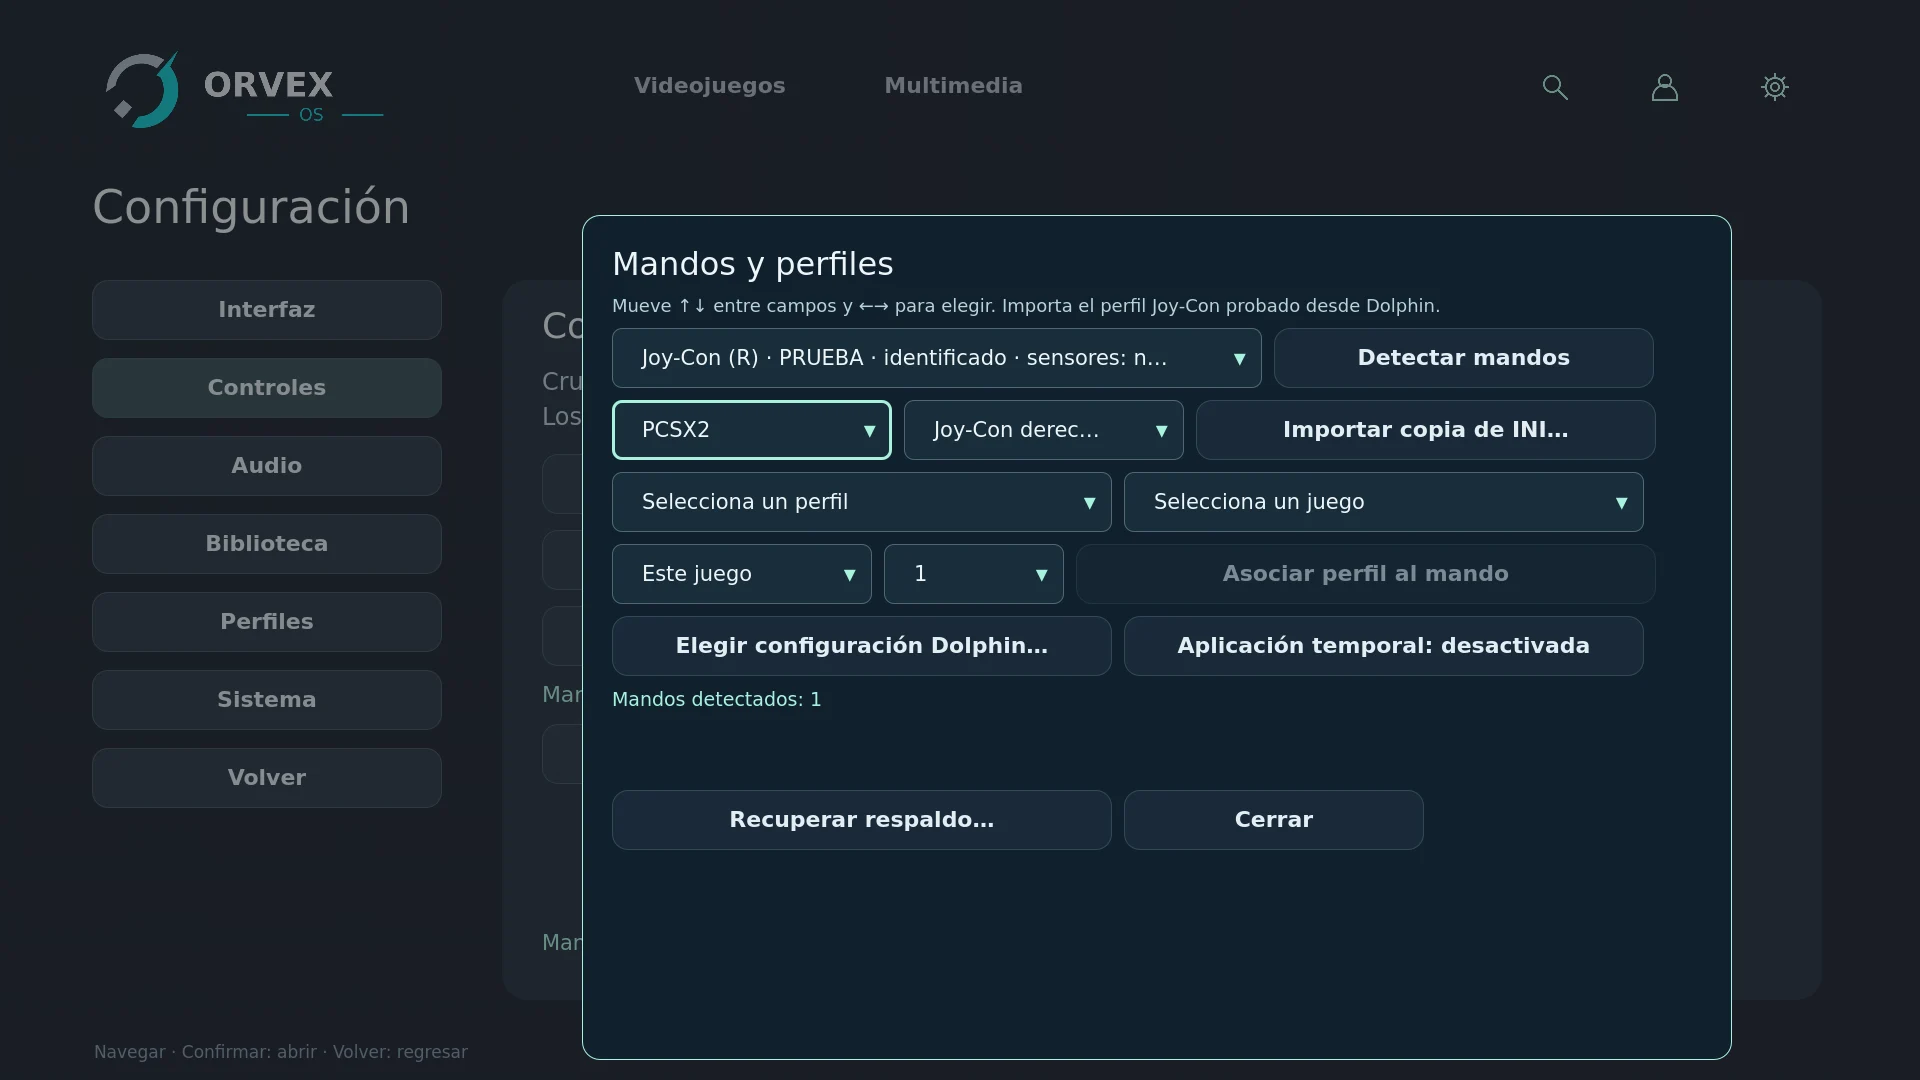
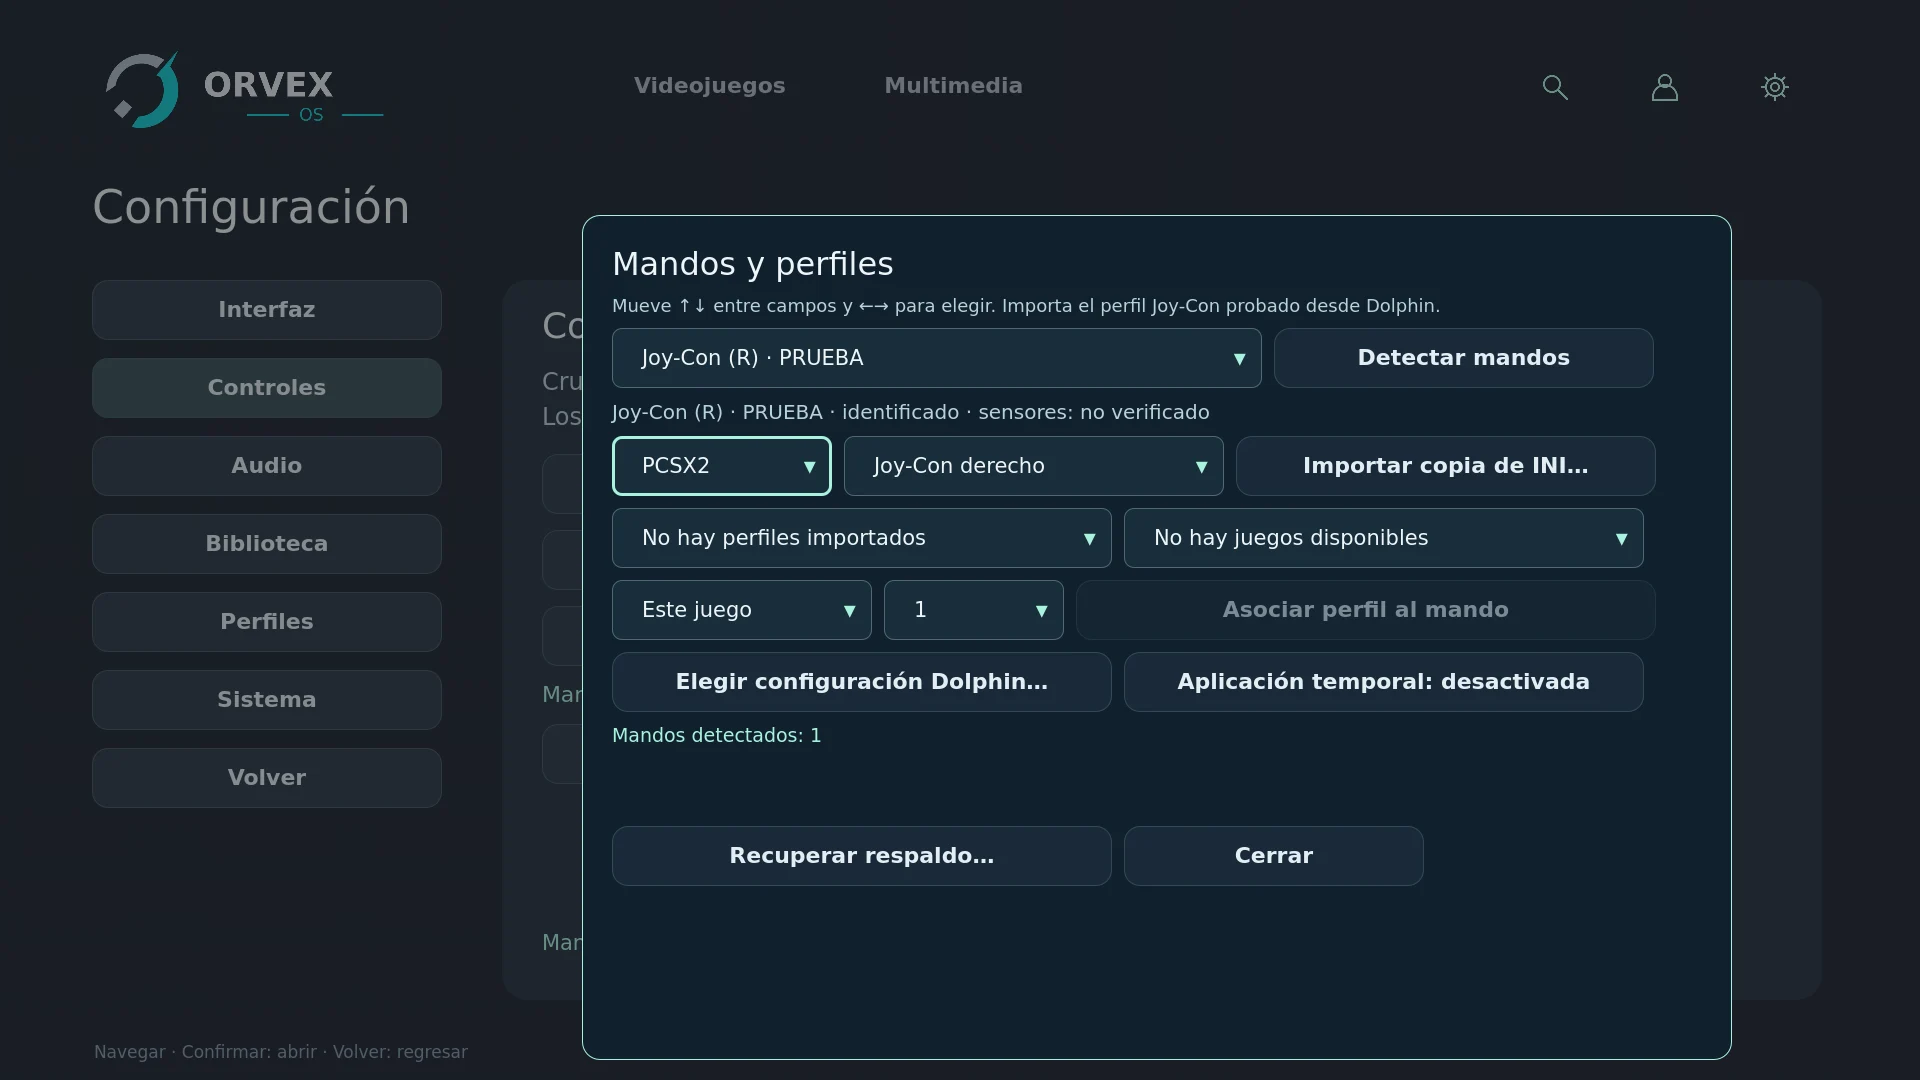
fix: show full controller labels and record Windows validation

diff --git a/src/orvex/ui/pages/SettingsPage.qml b/src/orvex/ui/pages/SettingsPage.qml
@@ -137,17 +137,18 @@ Utiliza los ajustes de audio de Windows o del juego.":settings.category===4?"Per
                 Text { text: "Mandos y perfiles"; color: "#edf5f8"; font.pixelSize: 32 }
                 Text { text: settings.backend.launchBusy?"Juego en ejecución: puedes consultar mandos; cambios externos disponibles al cerrar el juego.":"Mueve ↑↓ entre campos y ←→ para elegir. Importa el perfil Joy-Con probado desde Dolphin."; width: parent.width; wrapMode: Text.WordWrap; color: "#b7d2d8"; font.pixelSize: 18 }
                 Row { spacing: 12
-                    DarkCombo { id: deviceChoice; Keys.onDownPressed: detectController.forceActiveFocus(); Keys.onUpPressed: closeControllers.forceActiveFocus(); objectName: "controllerDevices"; width: 650; model: settings.backend.controllerDevices; textRole: "display"; Accessible.name: "Mando detectado" }
+                    DarkCombo { id: deviceChoice; Keys.onDownPressed: detectController.forceActiveFocus(); Keys.onUpPressed: closeControllers.forceActiveFocus(); objectName: "controllerDevices"; width: 650; model: settings.backend.controllerDevices; textRole: "name"; Accessible.name: "Mando detectado" }
                     ActionButton { id: detectController; Keys.onUpPressed: deviceChoice.forceActiveFocus(); Keys.onDownPressed: controlEngine.forceActiveFocus(); width: 380; text: "Detectar mandos"; onClicked: settings.backend.refreshControllers() }
                 }
+                Text {width:parent.width;wrapMode:Text.WordWrap;color:"#b7d2d8";font.pixelSize:20;text:{var d=settings.backend.controllerDevices[deviceChoice.currentIndex];return d?(d.display || d.name):"No hay mandos detectados. Conecta uno y elige Detectar mandos."}}
                 Row { spacing: 12
-                    DarkCombo { id: controlEngine; Keys.onUpPressed: detectController.forceActiveFocus(); Keys.onDownPressed: controlFamily.forceActiveFocus(); width: 280; model: [{label:"Dolphin",value:"dolphin"},{label:"PCSX2",value:"pcsx2"},{label:"PC nativo",value:"native"}]; textRole: "label"; valueRole: "value"; Accessible.name: "Motor del perfil" }
-                    DarkCombo { id: controlFamily; Keys.onUpPressed: controlEngine.forceActiveFocus(); Keys.onDownPressed: importProfile.forceActiveFocus(); width: 280; model: [{label:"Joy-Con derecho",value:"joycon-r"},{label:"Joy-Con izquierdo",value:"joycon-l"},{label:"DualSense",value:"dualsense"},{label:"Xbox",value:"xbox"},{label:"Wiimote",value:"wiimote"},{label:"Otro",value:"other"}]; textRole: "label"; valueRole: "value"; Accessible.name: "Tipo de mando del perfil" }
-                    ActionButton { id: importProfile; enabled:!settings.backend.launchBusy; Keys.onUpPressed: controlFamily.forceActiveFocus(); Keys.onDownPressed: controlProfile.forceActiveFocus(); width: 460; text: "Importar copia de INI…"; onClicked:Window.window.browseFile("Importar copia de perfil INI",function(path){settings.backend.captureControllerProfile(path,controlEngine.currentValue,controlFamily.currentValue)},["ini"],false) }
+                    DarkCombo { id: controlEngine; Keys.onUpPressed: detectController.forceActiveFocus(); Keys.onDownPressed: controlFamily.forceActiveFocus(); width: 220; model: [{label:"Dolphin",value:"dolphin"},{label:"PCSX2",value:"pcsx2"},{label:"PC nativo",value:"native"}]; textRole: "label"; valueRole: "value"; Accessible.name: "Motor del perfil" }
+                    DarkCombo { id: controlFamily; Keys.onUpPressed: controlEngine.forceActiveFocus(); Keys.onDownPressed: importProfile.forceActiveFocus(); width: 380; model: [{label:"Joy-Con derecho",value:"joycon-r"},{label:"Joy-Con izquierdo",value:"joycon-l"},{label:"DualSense",value:"dualsense"},{label:"Xbox",value:"xbox"},{label:"Wiimote",value:"wiimote"},{label:"Otro",value:"other"}]; textRole: "label"; valueRole: "value"; Accessible.name: "Tipo de mando del perfil" }
+                    ActionButton { id: importProfile; enabled:!settings.backend.launchBusy; Keys.onUpPressed: controlFamily.forceActiveFocus(); Keys.onDownPressed: controlProfile.forceActiveFocus(); width: 420; text: "Importar copia de INI…"; onClicked:Window.window.browseFile("Importar copia de perfil INI",function(path){settings.backend.captureControllerProfile(path,controlEngine.currentValue,controlFamily.currentValue)},["ini"],false) }
                 }
                 Row { spacing: 12
-                    DarkCombo { id: controlProfile; Keys.onUpPressed: importProfile.forceActiveFocus(); Keys.onDownPressed: controlGame.forceActiveFocus(); width: 500; model: settings.backend.controllerProfiles; textRole: "name"; displayText: currentIndex<0 ? "Selecciona un perfil" : currentText; Accessible.name: "Perfil aprobado" }
-                    DarkCombo { id: controlGame; Keys.onUpPressed: controlProfile.forceActiveFocus(); Keys.onDownPressed: controlScope.forceActiveFocus(); width: 520; model: settings.backend.managedGames; textRole: "title"; displayText: currentIndex<0 ? "Selecciona un juego" : currentText; Accessible.name: "Juego y versión" }
+                    DarkCombo { id: controlProfile; Keys.onUpPressed: importProfile.forceActiveFocus(); Keys.onDownPressed: controlGame.forceActiveFocus(); width: 500; model: settings.backend.controllerProfiles; textRole: "name"; displayText: count===0 ? "No hay perfiles importados" : currentText; Accessible.name: "Perfil aprobado" }
+                    DarkCombo { id: controlGame; Keys.onUpPressed: controlProfile.forceActiveFocus(); Keys.onDownPressed: controlScope.forceActiveFocus(); width: 520; model: settings.backend.managedGames; textRole: "title"; displayText: count===0 ? "No hay juegos disponibles" : currentText; Accessible.name: "Juego y versión" }
                 }
                 Row { spacing: 12
                     DarkCombo { id: controlScope; Keys.onUpPressed: controlGame.forceActiveFocus(); Keys.onDownPressed: controlPlayer.forceActiveFocus(); width: 260; model: [{label:"Este juego",value:"game"},{label:"Esta plataforma",value:"platform"},{label:"Predeterminado",value:"default"}]; textRole: "label"; valueRole: "value"; Accessible.name: "Ámbito: juego, plataforma o predeterminado" }

diff --git a/docs/SETTINGS_AND_QUICK_MENU.md b/docs/SETTINGS_AND_QUICK_MENU.md
@@ -79,3 +79,9 @@ La primera CI de este ciclo (40816150762) quedó esperando la cancelación de un
 Run 40816638345: Linux pasó 94 Python/Qt y 9 JS; Windows completó 94 casos con un error de compilación de la nueva fixture GUI (93 correctos). No se presenta ese run como verde. Se pasa user32.lib explícitamente al enlazador mediante /link y se conserva stdout/stderr del compilador si falla, en lugar de ocultar el diagnóstico. La siguiente CI debe ejecutar nuevamente la ventana real y el escalado.
 
 Se reprodujo además que Enter/Confirmar no alternaba el CheckBox de historial. Se añadió activación explícita y foco visible; cada apertura restablece Conservar historial y enfoca Cancelar. Una prueba antes/después comprueba alternar y cancelar sin retirar el juego ni tocar archivos. Doce pruebas de Configuración/menú pasan tras los cambios.
+
+## Validación Windows obtenida
+
+Run [40817124951](https://github.com/pablete260283/Orvex-OS/actions/runs/40817124951), commit 5d880aa38bfd5a812bc80583c7772828ce4b7d0d: ambos jobs SUCCESS. Linux ejecutó 95 Python/Qt y 9 JS; Windows 95 Python/Qt, 9 JS y cinco pruebas adicionales de Configuración a escala 150 %, sin skips. La ventana C Win32 recibió WM_CLOSE y terminó normalmente: se ejecutó la prueba, no un mock de esa API. Las pruebas de mando/pausa interna siguen siendo simulaciones/política de configuración, no hardware ni emulación física.
+
+Se descargó e inspeccionó el artefacto Windows 12873027623 (menú, Biblioteca y escalado): texto visible, selección y cinco filas correctas. Las tres capturas Windows se guardan aquí junto con los resultados. La última corrección visual amplía el campo de familia para mostrar Joy-Con derecho completo y muestra el detalle del dispositivo en texto separado; dos pruebas del gestor pasan localmente. Los Checks del último commit deben confirmarlo nuevamente.

diff --git a/docs/CONTINUITY.md b/docs/CONTINUITY.md
@@ -39,3 +39,5 @@ Base remota 03558a6; cambios en la rama actual y PR #13, sin merge/main. Se repr
 Corrección posterior: diálogo del gestor quedaba abierto tras salida del juego desde Configuración. Commit identificable por `fix: close settings dialogs on session return`; 11 pruebas específicas OK, incluida regresión nueva. Concurrencia CI incluye SHA del head para que una cancelación antigua del runner Windows sin pasos no bloquee el nuevo commit. Ver Checks del PR para resultado real del head; no inferir éxito del workflow.
 
 Run 40816638345: Linux 94+9 OK, Windows 93/94 correctos y error compilando fixture GUI. Ajuste posterior identificable por `fix: activate history choice from controller and link Win32 fixture`; 12 pruebas locales focalizadas OK. No dar por validado Windows hasta revisar el nuevo head. Se preserva error anterior en validation/0.4-settings-menu; no se omite la prueba Win32.
+
+CI verificada en 5d880aa: run 40817124951, Linux/Windows SUCCESS (95 Python/Qt + 9 JS en cada uno, más 5 tests Windows a escala 150 %). WM_CLOSE real sobre ventana Win32 propia aprobado. Artefacto Windows 12873027623 inspeccionado y capturas guardadas. Último ajuste visual identificable por `fix: show full controller labels and record Windows validation`; revisar sus Checks, no confundir el run anterior con el head. No fusionar PR #13. Pausa/foco/HOME físicos de emuladores siguen pendientes y documentados.

diff --git a/docs/validation/0.4-settings-menu/RESULTS.md b/docs/validation/0.4-settings-menu/RESULTS.md
@@ -13,3 +13,7 @@ Base 03558a6, PR #13.
 - Pausa/reanudación efectiva de Dolphin/PCSX2/comerciales, fullscreen exclusivo, restricciones de foco de Windows e interferencia de Steam Input permanecen pendientes. La política de pausa solo lee el INI aprobado; no consulta el estado interno del emulador.
 
 Ver ../../SETTINGS_AND_QUICK_MENU.md.
+
+## CI ejecutada, no solo configurada
+
+Run 40817124951, commit 5d880aa: Linux y Windows SUCCESS. 95 Python/Qt + 9 JS en cada sistema, cero skips. Windows añadió cinco pruebas a escala 150 %. Ruff/formato OK. Ventana Win32 propia: WM_CLOSE real y salida normal. Logs resumidos: linux-ci-95.txt y windows-ci-95-and-scaled.txt. Capturas Windows inspeccionadas: windows-library.webp, windows-menu.webp y windows-library-scaled-150.webp. No equivale a validación de mandos/emuladores físicos.
